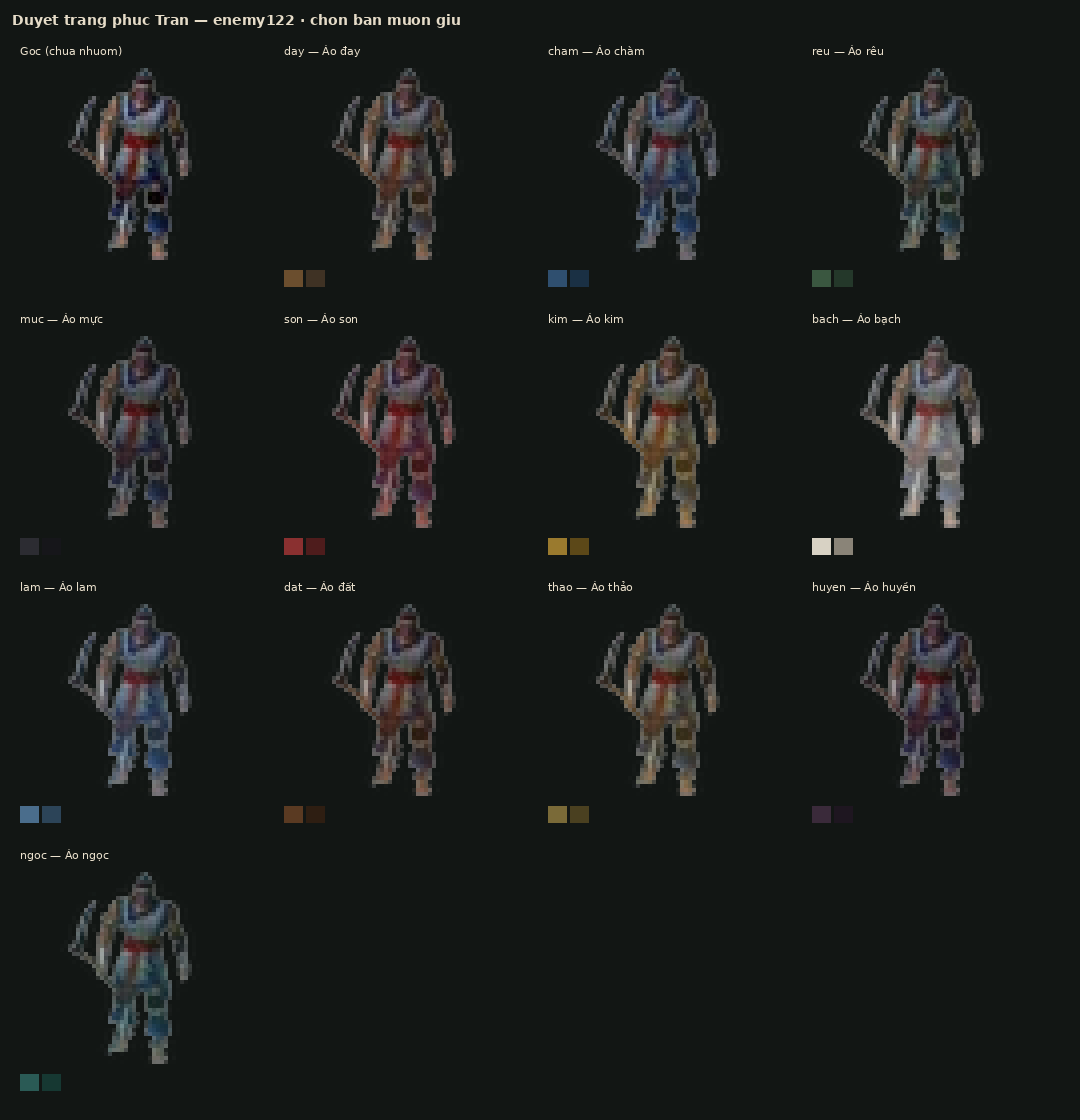
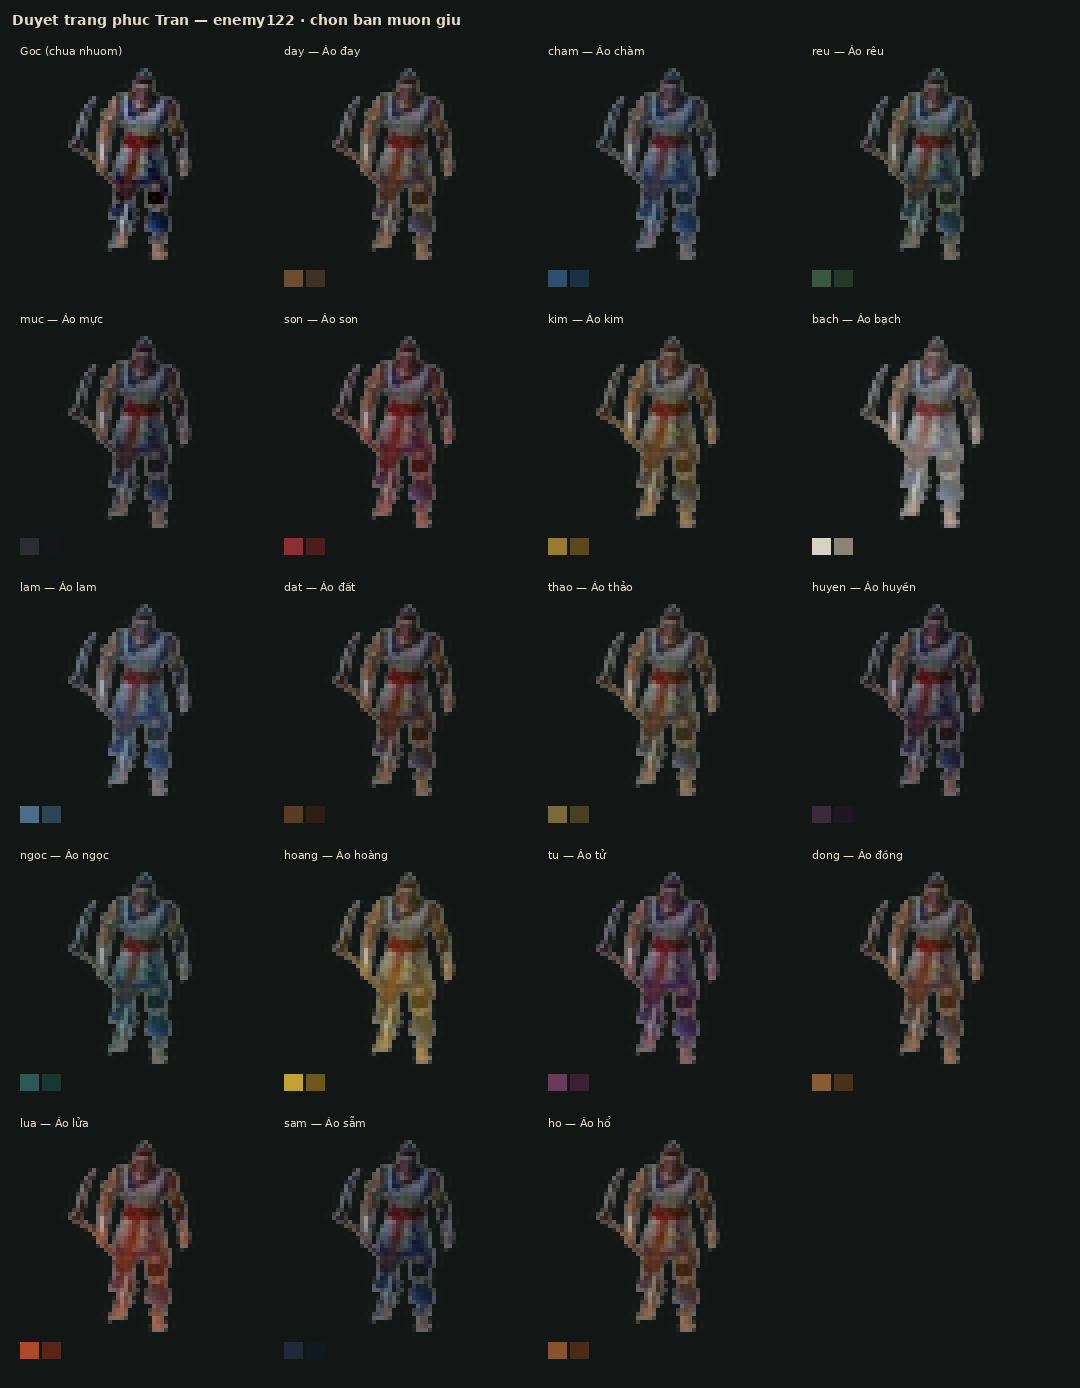
Thêm 6 bản trang phục Trần để duyệt (hoàng, tử, đồng, lửa, sẫm, hổ).
Gallery 19 preview (gốc + 6 active + 12 candidate) cập nhật trong docs/tran_costume_preview.

diff --git a/docs/tran_costume_preview/index.html b/docs/tran_costume_preview/index.html
@@ -16,5 +16,5 @@ figcaption{margin-top:8px} em{color:#9ab;font-style:normal;font-size:12px}
   <b>Duyệt trang phục thời Trần</b> — mẫu trên sơn tặc <code>enemy122</code><br/>
   <small>active = đang gắn game · candidate = bản mới chờ bạn chọn · goc = đối chiếu</small>
 </header>
-<div class="grid"><figure data-key="goc" data-status="reference"><img src="costume_goc.png" alt="goc"/><figcaption><b>goc</b> · Gốc<br/><small></small><br/><em>reference</em></figcaption></figure><figure data-key="day" data-status="active"><img src="costume_day.png" alt="day"/><figcaption><b>day</b> · Áo đay<br/><small>Sơn dân · nâu đay</small><br/><em>active</em></figcaption></figure><figure data-key="cham" data-status="active"><img src="costume_cham.png" alt="cham"/><figcaption><b>cham</b> · Áo chàm<br/><small>Lính tuần · chàm</small><br/><em>active</em></figcaption></figure><figure data-key="reu" data-status="active"><img src="costume_reu.png" alt="reu"/><figcaption><b>reu</b> · Áo rêu<br/><small>Phục kích · xanh rêu</small><br/><em>active</em></figcaption></figure><figure data-key="muc" data-status="active"><img src="costume_muc.png" alt="muc"/><figcaption><b>muc</b> · Áo mực<br/><small>Ám sát · mực đen</small><br/><em>active</em></figcaption></figure><figure data-key="son" data-status="active"><img src="costume_son.png" alt="son"/><figcaption><b>son</b> · Áo son<br/><small>Đầu lĩnh · đỏ son</small><br/><em>active</em></figcaption></figure><figure data-key="kim" data-status="active"><img src="costume_kim.png" alt="kim"/><figcaption><b>kim</b> · Áo kim<br/><small>Trùm cao · vàng nhạt</small><br/><em>active</em></figcaption></figure><figure data-key="bach" data-status="candidate"><img src="costume_bach.png" alt="bach"/><figcaption><b>bach</b> · Áo bạch<br/><small>Lụa trắng · văn quan</small><br/><em>candidate</em></figcaption></figure><figure data-key="lam" data-status="candidate"><img src="costume_lam.png" alt="lam"/><figcaption><b>lam</b> · Áo lam<br/><small>Lam nhạt · thư sinh</small><br/><em>candidate</em></figcaption></figure><figure data-key="dat" data-status="candidate"><img src="costume_dat.png" alt="dat"/><figcaption><b>dat</b> · Áo đất<br/><small>Nâu đất đậm · nông binh</small><br/><em>candidate</em></figcaption></figure><figure data-key="thao" data-status="candidate"><img src="costume_thao.png" alt="thao"/><figcaption><b>thao</b> · Áo thảo<br/><small>Vàng cỏ · dân dã</small><br/><em>candidate</em></figcaption></figure><figure data-key="huyen" data-status="candidate"><img src="costume_huyen.png" alt="huyen"/><figcaption><b>huyen</b> · Áo huyền<br/><small>Than tối · đặc sứ</small><br/><em>candidate</em></figcaption></figure><figure data-key="ngoc" data-status="candidate"><img src="costume_ngoc.png" alt="ngoc"/><figcaption><b>ngoc</b> · Áo ngọc<br/><small>Xanh ngọc · cận vệ</small><br/><em>candidate</em></figcaption></figure></div>
+<div class="grid"><figure data-key="goc" data-status="reference"><img src="costume_goc.png" alt="goc"/><figcaption><b>goc</b> · Gốc<br/><small></small><br/><em>reference</em></figcaption></figure><figure data-key="day" data-status="active"><img src="costume_day.png" alt="day"/><figcaption><b>day</b> · Áo đay<br/><small>Sơn dân · nâu đay</small><br/><em>active</em></figcaption></figure><figure data-key="cham" data-status="active"><img src="costume_cham.png" alt="cham"/><figcaption><b>cham</b> · Áo chàm<br/><small>Lính tuần · chàm</small><br/><em>active</em></figcaption></figure><figure data-key="reu" data-status="active"><img src="costume_reu.png" alt="reu"/><figcaption><b>reu</b> · Áo rêu<br/><small>Phục kích · xanh rêu</small><br/><em>active</em></figcaption></figure><figure data-key="muc" data-status="active"><img src="costume_muc.png" alt="muc"/><figcaption><b>muc</b> · Áo mực<br/><small>Ám sát · mực đen</small><br/><em>active</em></figcaption></figure><figure data-key="son" data-status="active"><img src="costume_son.png" alt="son"/><figcaption><b>son</b> · Áo son<br/><small>Đầu lĩnh · đỏ son</small><br/><em>active</em></figcaption></figure><figure data-key="kim" data-status="active"><img src="costume_kim.png" alt="kim"/><figcaption><b>kim</b> · Áo kim<br/><small>Trùm cao · vàng nhạt</small><br/><em>active</em></figcaption></figure><figure data-key="bach" data-status="candidate"><img src="costume_bach.png" alt="bach"/><figcaption><b>bach</b> · Áo bạch<br/><small>Lụa trắng · văn quan</small><br/><em>candidate</em></figcaption></figure><figure data-key="lam" data-status="candidate"><img src="costume_lam.png" alt="lam"/><figcaption><b>lam</b> · Áo lam<br/><small>Lam nhạt · thư sinh</small><br/><em>candidate</em></figcaption></figure><figure data-key="dat" data-status="candidate"><img src="costume_dat.png" alt="dat"/><figcaption><b>dat</b> · Áo đất<br/><small>Nâu đất đậm · nông binh</small><br/><em>candidate</em></figcaption></figure><figure data-key="thao" data-status="candidate"><img src="costume_thao.png" alt="thao"/><figcaption><b>thao</b> · Áo thảo<br/><small>Vàng cỏ · dân dã</small><br/><em>candidate</em></figcaption></figure><figure data-key="huyen" data-status="candidate"><img src="costume_huyen.png" alt="huyen"/><figcaption><b>huyen</b> · Áo huyền<br/><small>Than tối · đặc sứ</small><br/><em>candidate</em></figcaption></figure><figure data-key="ngoc" data-status="candidate"><img src="costume_ngoc.png" alt="ngoc"/><figcaption><b>ngoc</b> · Áo ngọc<br/><small>Xanh ngọc · cận vệ</small><br/><em>candidate</em></figcaption></figure><figure data-key="hoang" data-status="candidate"><img src="costume_hoang.png" alt="hoang"/><figcaption><b>hoang</b> · Áo hoàng<br/><small>Hoàng y · cận thần</small><br/><em>candidate</em></figcaption></figure><figure data-key="tu" data-status="candidate"><img src="costume_tu.png" alt="tu"/><figcaption><b>tu</b> · Áo tử<br/><small>Tía dâu · quan võ</small><br/><em>candidate</em></figcaption></figure><figure data-key="dong" data-status="candidate"><img src="costume_dong.png" alt="dong"/><figcaption><b>dong</b> · Áo đồng<br/><small>Đồng hun · lính cung</small><br/><em>candidate</em></figcaption></figure><figure data-key="lua" data-status="candidate"><img src="costume_lua.png" alt="lua"/><figcaption><b>lua</b> · Áo lửa<br/><small>Cam lửa · cảm tử</small><br/><em>candidate</em></figcaption></figure><figure data-key="sam" data-status="candidate"><img src="costume_sam.png" alt="sam"/><figcaption><b>sam</b> · Áo sẫm<br/><small>Chàm sẫm · đêm</small><br/><em>candidate</em></figcaption></figure><figure data-key="ho" data-status="candidate"><img src="costume_ho.png" alt="ho"/><figcaption><b>ho</b> · Áo hổ<br/><small>Nâu hổ · dũng sĩ</small><br/><em>candidate</em></figcaption></figure></div>
 </body></html>

diff --git a/js/tran_costume.js b/js/tran_costume.js
@@ -19,7 +19,14 @@ const TRAN_COSTUMES = {
   dat:   { n: 'Áo đất',   note: 'Nâu đất đậm · nông binh', body: { c: '#5a3a22', a: 0.44 }, head: { c: '#2e1e12', a: 0.30 }, status: 'candidate' },
   thao:  { n: 'Áo thảo',  note: 'Vàng cỏ · dân dã',        body: { c: '#7a6a38', a: 0.40 }, head: { c: '#4a4020', a: 0.28 }, status: 'candidate' },
   huyen: { n: 'Áo huyền', note: 'Than tối · đặc sứ',       body: { c: '#3a2a3a', a: 0.42 }, head: { c: '#1e1620', a: 0.32 }, status: 'candidate' },
-  ngoc:  { n: 'Áo ngọc',  note: 'Xanh ngọc · cận vệ',      body: { c: '#2a5a55', a: 0.42 }, head: { c: '#163832', a: 0.30 }, status: 'candidate' }
+  ngoc:  { n: 'Áo ngọc',  note: 'Xanh ngọc · cận vệ',      body: { c: '#2a5a55', a: 0.42 }, head: { c: '#163832', a: 0.30 }, status: 'candidate' },
+  /* —— đợt duyệt thêm —— */
+  hoang: { n: 'Áo hoàng', note: 'Hoàng y · cận thần',      body: { c: '#c4a035', a: 0.44 }, head: { c: '#6e5818', a: 0.30 }, status: 'candidate' },
+  tu:    { n: 'Áo tử',    note: 'Tía dâu · quan võ',       body: { c: '#6a3a58', a: 0.42 }, head: { c: '#3a2030', a: 0.30 }, status: 'candidate' },
+  dong:  { n: 'Áo đồng',  note: 'Đồng hun · lính cung',    body: { c: '#8a5a32', a: 0.44 }, head: { c: '#4a3018', a: 0.30 }, status: 'candidate' },
+  lua:   { n: 'Áo lửa',   note: 'Cam lửa · cảm tử',        body: { c: '#b04828', a: 0.44 }, head: { c: '#5c2414', a: 0.30 }, status: 'candidate' },
+  sam:   { n: 'Áo sẫm',   note: 'Chàm sẫm · đêm',          body: { c: '#1e2a3a', a: 0.46 }, head: { c: '#101820', a: 0.34 }, status: 'candidate' },
+  ho:    { n: 'Áo hổ',    note: 'Nâu hổ · dũng sĩ',        body: { c: '#8a5228', a: 0.42 }, head: { c: '#4a2c14', a: 0.30 }, status: 'candidate' }
 };
 
 const TRAN_COSTUME_KEYS = Object.keys(TRAN_COSTUMES);

diff --git a/tools/gen_tran_costume_preview.py b/tools/gen_tran_costume_preview.py
@@ -27,6 +27,13 @@ COSTUMES = {
     "thao": {"n": "Áo thảo", "note": "Vàng cỏ · dân dã", "body": ("#7a6a38", 0.40), "head": ("#4a4020", 0.28)},
     "huyen": {"n": "Áo huyền", "note": "Than tối · đặc sứ", "body": ("#3a2a3a", 0.42), "head": ("#1e1620", 0.32)},
     "ngoc": {"n": "Áo ngọc", "note": "Xanh ngọc · cận vệ", "body": ("#2a5a55", 0.42), "head": ("#163832", 0.30)},
+    # đợt duyệt thêm
+    "hoang": {"n": "Áo hoàng", "note": "Hoàng y · cận thần", "body": ("#c4a035", 0.44), "head": ("#6e5818", 0.30)},
+    "tu": {"n": "Áo tử", "note": "Tía dâu · quan võ", "body": ("#6a3a58", 0.42), "head": ("#3a2030", 0.30)},
+    "dong": {"n": "Áo đồng", "note": "Đồng hun · lính cung", "body": ("#8a5a32", 0.44), "head": ("#4a3018", 0.30)},
+    "lua": {"n": "Áo lửa", "note": "Cam lửa · cảm tử", "body": ("#b04828", 0.44), "head": ("#5c2414", 0.30)},
+    "sam": {"n": "Áo sẫm", "note": "Chàm sẫm · đêm", "body": ("#1e2a3a", 0.46), "head": ("#101820", 0.34)},
+    "ho": {"n": "Áo hổ", "note": "Nâu hổ · dũng sĩ", "body": ("#8a5228", 0.42), "head": ("#4a2c14", 0.30)},
 }
 
 

diff --git a/docs/TRAN_COSTUME.md b/docs/TRAN_COSTUME.md
@@ -32,6 +32,12 @@ Reply key muốn **giữ** / **bỏ** / **đưa vào spawn**, ví dụ:
 | `thao` | Áo thảo | Dân dã | `#7a6a38` | `#4a4020` |
 | `huyen` | Áo huyền | Đặc sứ | `#3a2a3a` | `#1e1620` |
 | `ngoc` | Áo ngọc | Cận vệ | `#2a5a55` | `#163832` |
+| `hoang` | Áo hoàng | Cận thần | `#c4a035` | `#6e5818` |
+| `tu` | Áo tử | Quan võ | `#6a3a58` | `#3a2030` |
+| `dong` | Áo đồng | Lính cung | `#8a5a32` | `#4a3018` |
+| `lua` | Áo lửa | Cảm tử | `#b04828` | `#5c2414` |
+| `sam` | Áo sẫm | Đêm | `#1e2a3a` | `#101820` |
+| `ho` | Áo hổ | Dũng sĩ | `#8a5228` | `#4a2c14` |
 
 ## Gán spawn hiện tại
 
